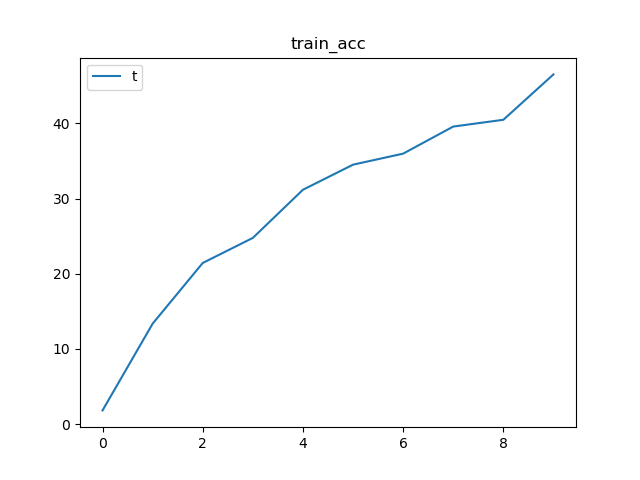
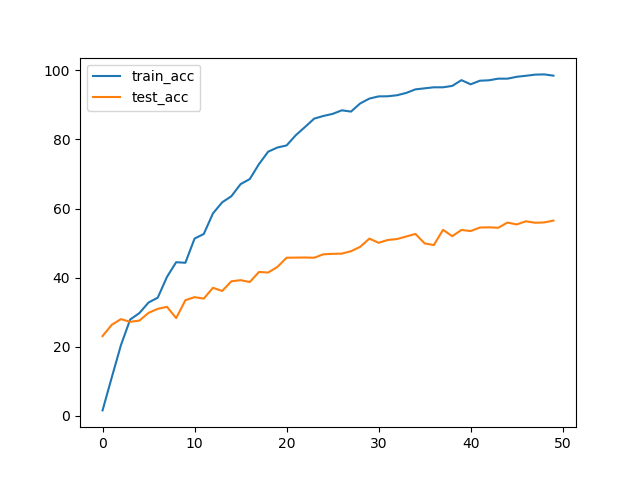
Update result

diff --git a/train.py b/train.py
@@ -57,23 +57,23 @@ if __name__ == '__main__':
     optimizer = optim.SGD(model.parameters(), lr=opt.learning_rate, momentum=0.9, weight_decay=1e-4)
     criterion = nn.CrossEntropyLoss()
     # 加载模型
-    model, optimizer, start_epoch = utils.load_checkpoint(model, optimizer, './checkpoint/best_model.pth')
+    model, optimizer, start_epoch = utils.load_checkpoint(model, optimizer, './checkpoint/checkpoint.pth')
 
 
 
     best_precision = 0
     lowest_loss = 0
-    for epoch in range(opt.epochs):
+    for epoch in range(1, opt.epochs+1):
         acc_train, loss_train = utils.train(train_data, model, criterion,optimizer, epoch+start_epoch, opt.print_interval,
                                             opt.checkpoint_dir)
         # 在日志文件中记录每个epoch的训练精度和损失
-        with open(opt.checkpoint_dir + 'each_epoch_record_train.txt', 'a') as acc_file:
-            acc_file.write('Epoch: %2d, train_Precision: %.8f, train_Loss: %.8f\n' % (epoch, acc_train, loss_train))
+        with open(opt.checkpoint_dir + opt.model + '_each_epoch_record_train.txt', 'a') as acc_file:
+            acc_file.write('Epoch: %2d, train_Precision: %.8f, train_Loss: %.8f\n' % (epoch+start_epoch, acc_train, loss_train))
 
         precision, avg_loss = utils.validate(test_data, model, criterion, opt.print_interval, opt.checkpoint_dir)
         # 在日志文件中记录每个epoch的验证精度和损失
-        with open(opt.checkpoint_dir + 'each_epoch_record_val.txt', 'a') as acc_file:
-            acc_file.write('Epoch: %2d, Precision: %.8f, Loss: %.8f\n' % (epoch, precision, avg_loss))
+        with open(opt.checkpoint_dir+ opt.model + '_each_epoch_record_val.txt', 'a') as acc_file:
+            acc_file.write('Epoch: %2d, Precision: %.8f, Loss: %.8f\n' % (epoch+start_epoch, precision, avg_loss))
             pass
 
         print('--' * 30)
@@ -83,8 +83,8 @@ if __name__ == '__main__':
               'Previous Lowest Loss: %.3f)' % lowest_loss)
         print('--' * 30)
         # 保存最新模型
-        save_path = os.path.join(opt.checkpoint_dir, 'checkpoint.pth')
-        t.save({'epoch': epoch, 'state_dict': model.state_dict(), 'loss': loss_train,
+        save_path = os.path.join(opt.checkpoint_dir, opt.model + '_checkpoint.pth')
+        t.save({'epoch': epoch+start_epoch, 'state_dict': model.state_dict(), 'loss': loss_train,
                 'optimizer': optimizer.state_dict()}, save_path)
 
         # 记录最高精度与最低loss
@@ -95,9 +95,9 @@ if __name__ == '__main__':
 
         # 保存准确率最高的模型
         if is_best:
-            best_path = os.path.join(opt.checkpoint_dir, 'best_model.pth')
+            best_path = os.path.join(opt.checkpoint_dir, opt.model + '_best_model.pth')
             shutil.copyfile(save_path, best_path)
         # 保存损失最低的模型
         if is_lowest_loss:
-            lowest_path = os.path.join(opt.checkpoint_dir, 'lowest_loss.pth')
+            lowest_path = os.path.join(opt.checkpoint_dir, opt.model + '_lowest_loss.pth')
             shutil.copyfile(save_path, lowest_path)

diff --git a/utils/show.py b/utils/show.py
@@ -4,32 +4,48 @@ import os
 
 if __name__ == '__main__':
 
-    train_file = open("../checkpoint/vgg16each_epoch_record_train.txt", 'r')
+    train_file = open("../checkpoint/vgg16_each_epoch_record_train.txt", 'r')
+    test_file = open('../checkpoint/vgg16_each_epoch_record_val.txt', 'r')
+
     train_total = train_file.readlines()
+    test_total = test_file.readlines()
     train_num = len(train_total)
-    train_res = np.zeros(train_num)
+    test_num = len(test_total)
     train_idx = np.arange(train_num)
-    acc_list = []
-    loss_list = []
+    trian_acc_list = []
+    trian_loss_list = []
+    test_acc_list = []
+    test_loss_list = []
+
 
     for idx in range(train_num):
         train_str = train_total[idx].split(',')
-        train_acc = float(train_str[1].split(':')[-1])
-        acc_list.append(train_acc)
-        train_loss = float(train_str[2].split(':')[-1])
-        loss_list.append(train_loss)
+        test_str = test_total[idx].split(',')
 
-    plt.figure()
-    plt.plot(train_idx, acc_list)
-    plt.legend(('train'))
-    plt.title('train_acc')
+        train_acc = float(train_str[1].split(':')[-1])
+        test_acc = float(test_str[1].split(':')[-1])
+
+        trian_acc_list.append(train_acc)
+        test_acc_list.append(test_acc)
+
+        train_loss = float(train_str[2].split(':')[-1])
+        test_loss = float(test_str[2].split(':')[-1])
+        trian_loss_list.append(train_loss)
+        test_loss_list.append(test_loss)
+
+    fig = plt.figure()
+    ax = fig.add_subplot(111)
+    ax.plot(train_idx, trian_acc_list, label='train_acc')
+    ax.plot(train_idx, test_acc_list, label='test_acc')
+    ax.legend()
     plt.savefig('acc.png')
     plt.show()
 
-    plt.figure()
-    plt.plot(train_idx, loss_list)
-    plt.legend(('train'))
-    plt.title('train_loss')
+    fig = plt.figure()
+    ax = fig.add_subplot(111)
+    ax.plot(train_idx, trian_loss_list, label='train_loss')
+    ax.plot(train_idx, test_loss_list, label='test_loss')
+    ax.legend()
     plt.savefig('loss.png')
     plt.show()
 

diff --git a/models/BCNN.py b/models/BCNN.py
@@ -14,7 +14,12 @@ class BCNN(nn.Module):
                                       resnet50.layer2,
                                       resnet50.layer3,
                                       resnet50.layer4)
-        self.fc = nn.Sequential(nn.Linear(2048*2048, 200))
+        self.fc = nn.Linear(2048*2048, 200)
+        for param in self.features.parameters():
+            param.requires_grad = True
+        t.nn.init.kaiming_normal_(self.fc.weight.data)
+        if self.fc.bias is not None:
+            t.nn.init.constant_(self.fc.bias.data, val=0)
 
     def forward(self, x):
         out = self.features(x)
@@ -23,19 +28,18 @@ class BCNN(nn.Module):
         # [1, 2048, 8* 8]
         out = out.view((N, out.size(1), Y**2))
         # [1, 2048, 2048]
-        out = t.bmm(out, out.transpose(1, 2)) // Y**2
+        out = t.bmm(out, t.transpose(out, 1, 2)) / Y**2
         # [1, 2048*2048]
         out = out.view(N, -1)
-        # x = torch.nn.functional.normalize(torch.sign(x) *
-        #                                   torch.sqrt(torch.abs(x) + 1e-10))
-        out = t.nn.functional.normalize(out)
+        out = t.nn.functional.normalize(t.sign(out) * t.sqrt(t.abs(out) + 1e-10))
+        # out = t.nn.functional.normalize(out)
         out = self.fc(out)
         return out
 
 
 
 if __name__ == '__main__':
-    # pre_dict = m.resnet50(pretrained=True)
+    # pre_dict = m.vgg16(pretrained=True)
     # print(pre_dict)
     model = BCNN()
     input = t.randn((1, 3, 256, 256))

diff --git a/utils/utils.py b/utils/utils.py
@@ -4,6 +4,7 @@ import numpy as np
 import os
 import pandas as pd
 from tqdm import tqdm
+import torch.nn as nn
 
 device = torch.device('cuda' if torch.cuda.is_available() else 'cpu')
 def creatdir(filename):
@@ -78,8 +79,7 @@ def train(train_loader, model, criterion, optimizer, epoch, print_interval,filen
         images = images.to(device)
         labels = torch.from_numpy(np.array(labels)).long().to(device)
         # 梯度归零
-        if epoch == 0:
-            optimizer.zero_grad()
+        optimizer.zero_grad()
         # 将图片输入网络，前传，生成预测值
         # output,aux = model(images)
         output = model(images)
@@ -175,8 +175,10 @@ def to_csv(test_loader, model, file_path, title=['id', 'label']):
 def load_checkpoint(model, optimizer, checkpoint_PATH):
     start_epoch = 0
     if os.path.exists(checkpoint_PATH):
+        model.cuda()
         model_CKPT = torch.load(checkpoint_PATH)
-        model.load_state_dict(model_CKPT['state_dict'])
+        model = nn.DataParallel(model)
+        model.load_state_dict(model_CKPT['state_dict'], False)
         optimizer.load_state_dict(model_CKPT['optimizer'])
         start_epoch = model_CKPT['epoch']
         print('Load last checkpoint data')
